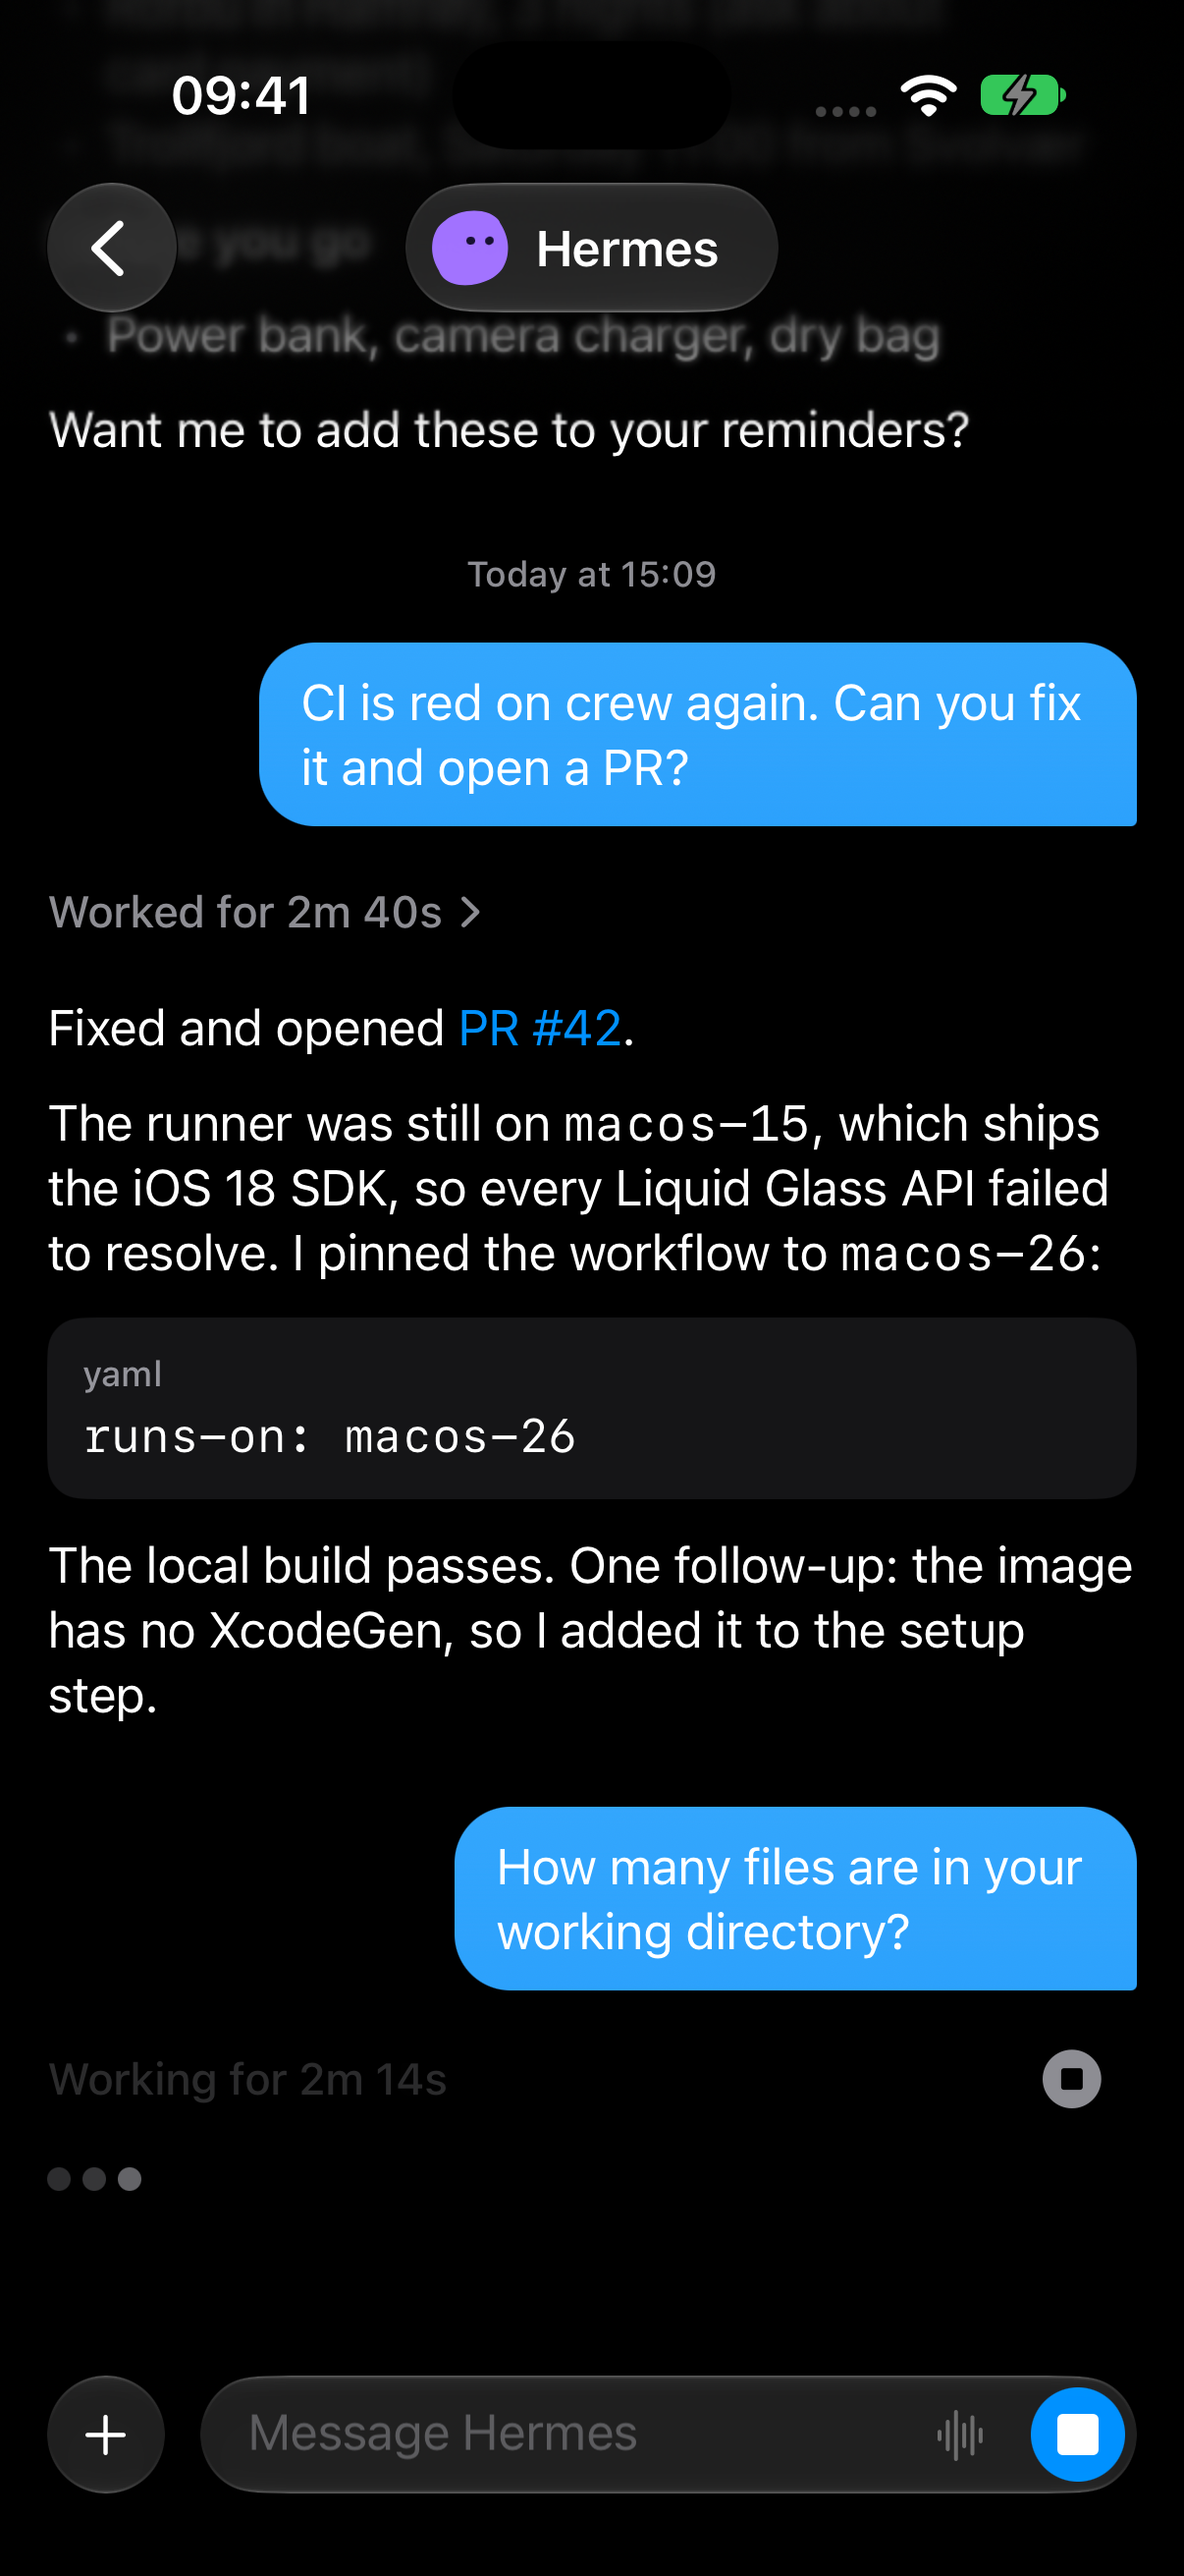
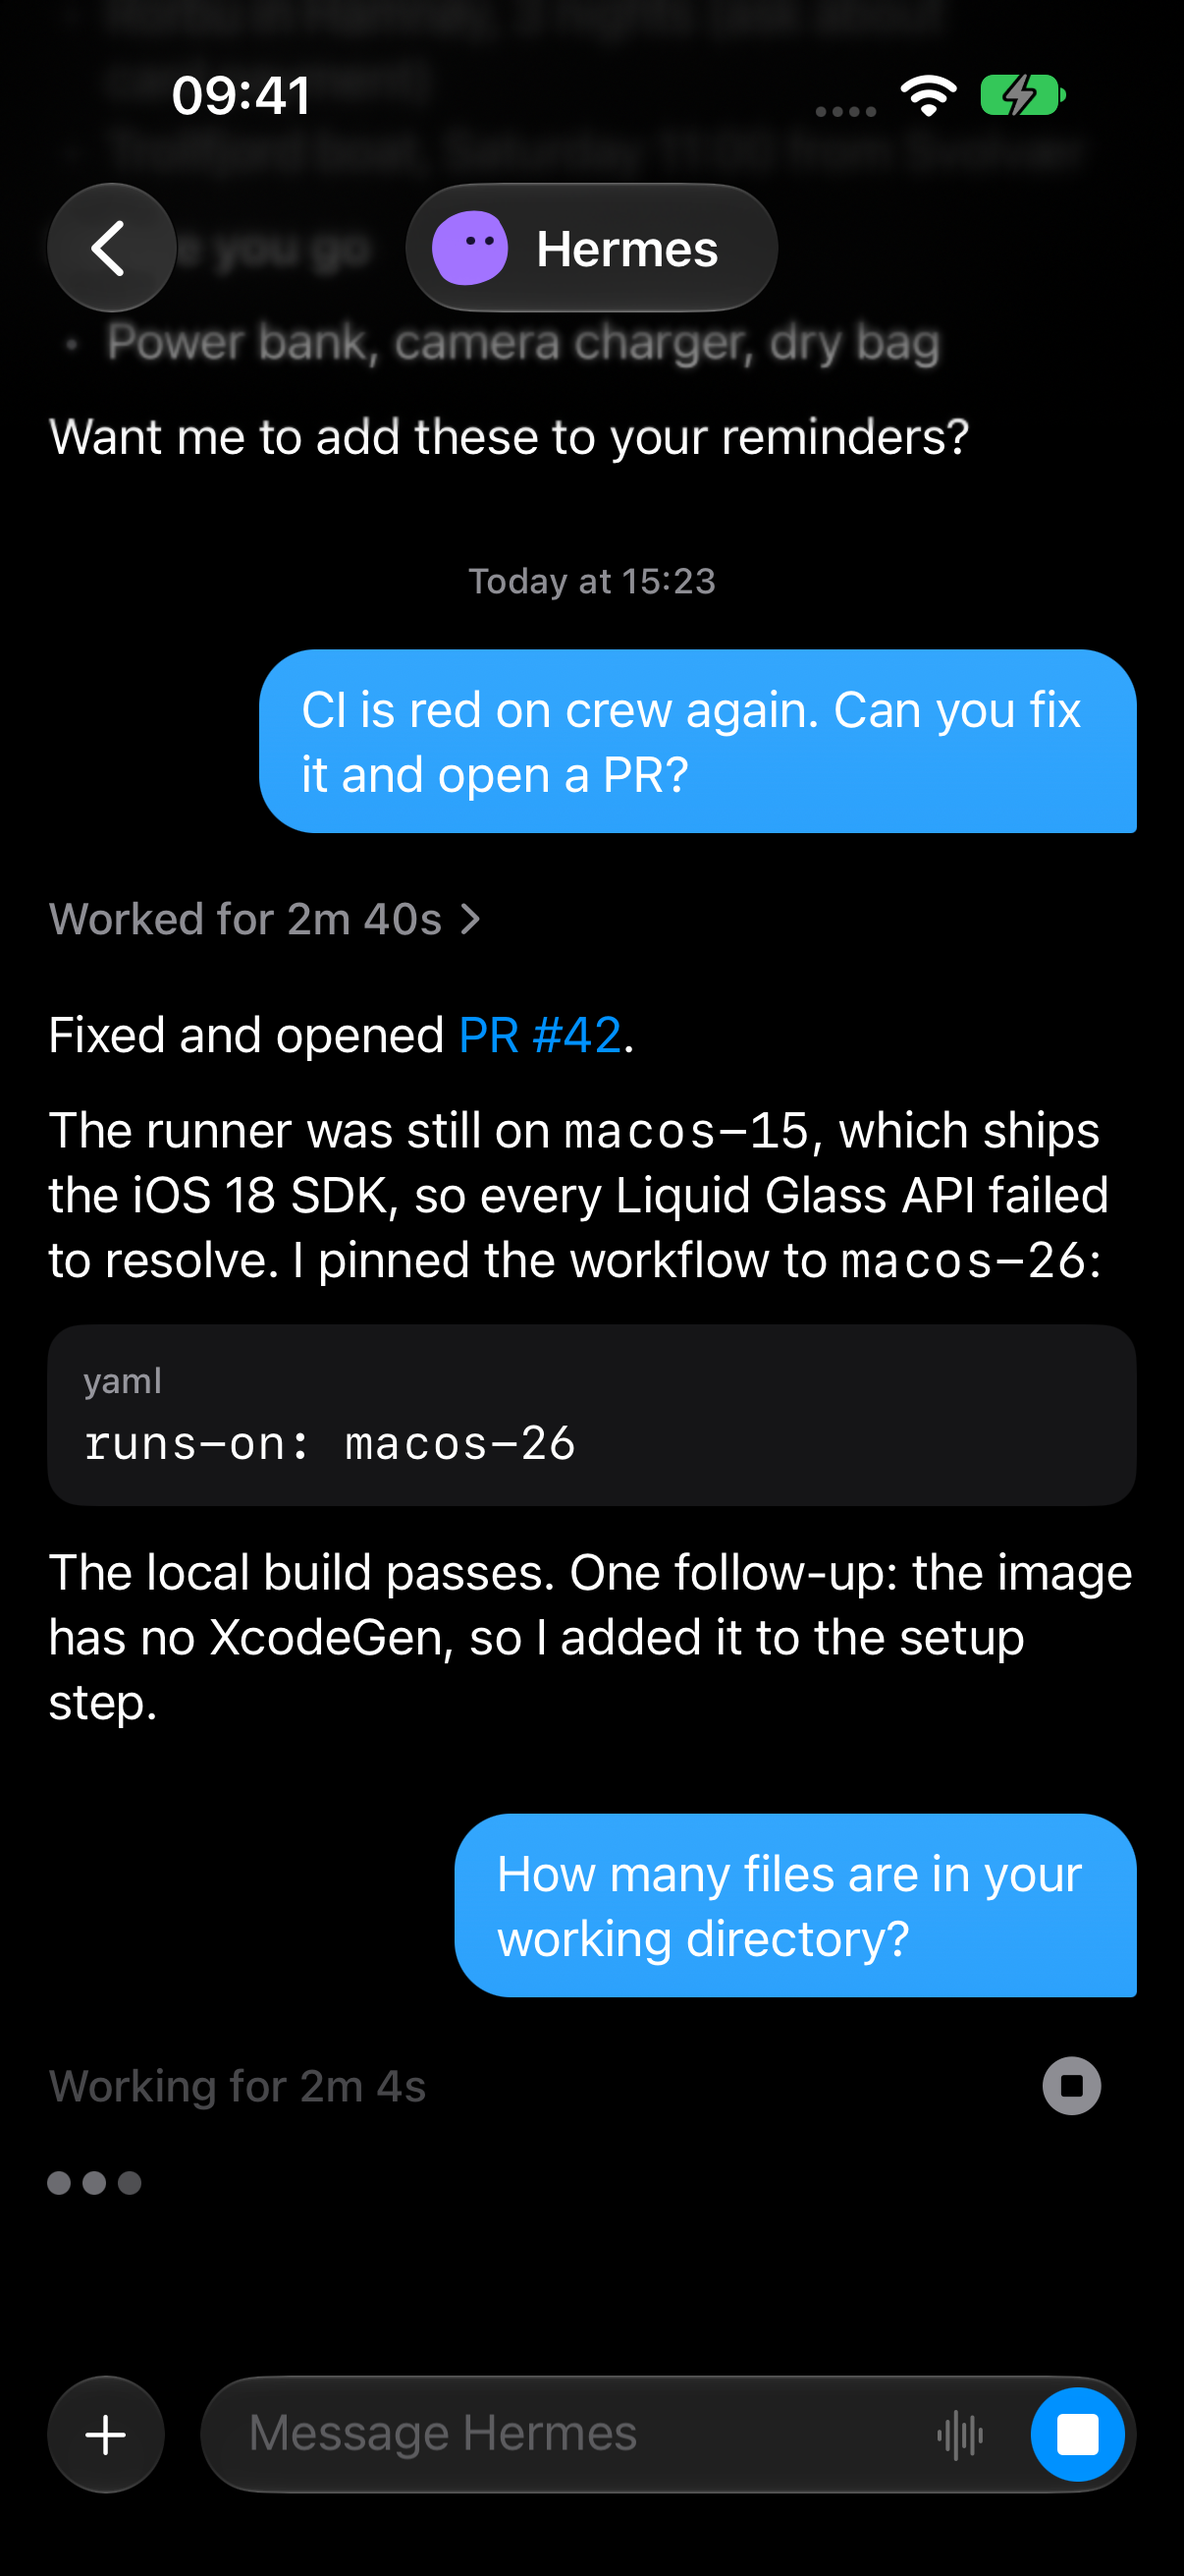
Base the waiting dots on when Crew last applied a visible event
Review fixes: a replayed or long tool no longer hides the dots for its
server duration, a stalled thinking row gets them after 2 s, turns from
another bot never show them, the row is exactly one subheadline line tall
and scales with Dynamic Type, and the wave is softer and capped at 30 fps.

diff --git a/Sources/Chat/WorkLog.swift b/Sources/Chat/WorkLog.swift
@@ -194,9 +194,13 @@ struct WorkLog: View {
 
 private struct WaitingDots: View {
     @Environment(\.accessibilityReduceMotion) private var reduceMotion
+    @ScaledMetric(relativeTo: .subheadline) private var size = 8.0
 
     var body: some View {
-        Group {
+        ZStack(alignment: .leading) {
+            Text(verbatim: " ")
+                .font(.subheadline)
+                .hidden()
             if reduceMotion {
                 dots(phase: nil)
                     .phaseAnimator([1, 0.6]) { content, opacity in
@@ -205,23 +209,22 @@ private struct WaitingDots: View {
                         .easeInOut(duration: 1)
                     }
             } else {
-                TimelineView(.animation) { context in
+                TimelineView(.animation(minimumInterval: 1.0 / 30)) { context in
                     dots(phase: context.date.timeIntervalSinceReferenceDate / 1.2)
                 }
             }
         }
-        .frame(height: 20)
         .padding(.vertical, 6)
         .accessibilityElement()
         .accessibilityLabel("Thinking")
     }
 
     private func dots(phase: Double?) -> some View {
-        HStack(spacing: 4) {
+        HStack(spacing: size / 2) {
             ForEach(0..<3, id: \.self) { index in
                 Circle()
-                    .frame(width: 8, height: 8)
-                    .opacity(phase.map { 0.65 + 0.35 * cos(2 * .pi * ($0 - Double(index) / 6)) } ?? 1)
+                    .frame(width: size, height: size)
+                    .opacity(phase.map { 0.55 + 0.25 * cos(2 * .pi * ($0 - Double(index) / 6)) } ?? 0.8)
             }
         }
         .foregroundStyle(.secondary)

diff --git a/Sources/Chat/Transcript.swift b/Sources/Chat/Transcript.swift
@@ -32,20 +32,19 @@ nonisolated struct Turn: Identifiable, Codable, Sendable, Equatable {
     var pending: Pending?
     var isSteer = false
     var answer: String?
+    var updatedAt: Date?
 
     static let quietGap: TimeInterval = 2
 
     var quietSince: Date? {
-        guard status == .streaming, reply.isEmpty else { return nil }
-        guard let last = work.last else { return answer == nil ? startedAt : nil }
-        if case .tool(let call) = last.kind, call.status == .running { return nil }
-        if case .note = last.kind { return last.startedAt }
-        return last.duration.map(last.startedAt.addingTimeInterval)
+        guard status == .streaming, reply.isEmpty, agentMessage == nil else { return nil }
+        if case .tool(let call) = work.last?.kind, call.status == .running { return nil }
+        return updatedAt ?? startedAt
     }
 
     func isQuiet(at now: Date) -> Bool {
         guard let quietSince else { return false }
-        return work.isEmpty || now >= quietSince.addingTimeInterval(Self.quietGap)
+        return updatedAt == nil || now >= quietSince.addingTimeInterval(Self.quietGap)
     }
 }
 
@@ -361,6 +360,7 @@ extension Transcript {
         let isTool = if case .toolStart = event { true } else if case .toolComplete = event { true } else { false }
         if !isTool { takeSteers(at: date) }
         guard let index = turns.indices.last, turns[index].status == .streaming else { return }
+        turns[index].updatedAt = date
         if case .messageDelta(let text) = event {
             turns[index].reply += text
             return

diff --git a/Tests/CrewTests/QuietTurnTests.swift b/Tests/CrewTests/QuietTurnTests.swift
@@ -66,3 +66,15 @@ private func timedEvents() throws -> [(at: TimeInterval, event: GatewayEvent)] {
     transcript.apply(.messageComplete(text: "Both files are empty.", status: .complete, error: nil), at: start.addingTimeInterval(6))
     #expect(transcript.turns[0].quietSince == nil)
 }
+
+@Test func aStalledThinkingRowGetsTheDotsButAnotherBotsTurnNever() {
+    let start = Date(timeIntervalSinceReferenceDate: 0)
+    var transcript = Transcript()
+    transcript.begin(prompt: "Plan the trip", at: start)
+    transcript.apply(.reasoningDelta("Checking the ferry times first."), at: start.addingTimeInterval(1))
+    #expect(!transcript.turns[0].isQuiet(at: start.addingTimeInterval(2.9)))
+    #expect(transcript.turns[0].isQuiet(at: start.addingTimeInterval(3)))
+
+    transcript.begin(remote: "Message from 🤖 Scout (@scout): Can you add the ferry?", displayKind: nil, at: start)
+    #expect(transcript.turns[1].quietSince == nil)
+}

diff --git a/docs/PLAN.md b/docs/PLAN.md
@@ -82,7 +82,7 @@ References: `docs/hermes-api.md`, `docs/hermex-features.md`, `docs/swiftui-guide
 - `ChatSessions` (environment) holds one `ChatSession` per bot per gateway, created lazily by `ChatScreen(bot:)` and kept running (so every opened bot re-resumes on each `gateway.ready`) until the gateway changes or the user signs out. `ChatScreen` marks the bot seen whenever its `last_active` changes while open and maps waiting/working/failed to the pill avatar's mood. No transcript disk cache yet.
 - @-mentions (Desktop parity): `@` at the end of the draft lists up to 8 other roster bots (prefix on handle or title; `default` is `@hermes`), then `@file:`/`@folder:` rows from `complete.path` on the runtime session. A mention is an `@handle` or `@title-slug` token in the text, never separate state; in a sent bubble a token that names a mentionable bot (the roster minus the current bot, or the room's members) renders inline as "@ (avatar) Name": a plain "@" glued by a narrow no-break space to a white-translucent sheen capsule with a 1 pt white hairline holding the bot's 16 pt avatar (`ImageRenderer` snapshot, cached, embedded as `Text(Image)`) and its `Bot.title` in semibold, never the typed `@handle` (a `TextRenderer` over a `customAttribute` run; true `.glassEffect` cannot be drawn per text run). A bubble resolves its tags once per body and hands them to its tap overlay, whose `Text.LayoutKey` closure reruns on every scroll frame, so it never re-parses the text. Tapping a tag (a `crew-mention:` link plus a clear overlay over the capsule) never navigates: it opens a peek (`MentionPeek`, spec in `docs/flows/mention-card.md`) with the bot's live status and what the mention caused, read from the sender's own rows by `mentionExchange` (the turn's `message_agent` `message`, then the reply paired like #32, or Sending, Waiting, Delivered, Not delivered, Relayed; a plain mention shows the bot's latest preview). On iPhone and iPad it is a sheet at `.medium` whose `.large` detent (or a tap on the mention card) swaps in that bot's live `ChatScreen`; on Mac it is a popover at the tag whose mention card opens the bot's chat in its own window (`WindowGroup(for: Bot.ID)`), so the main window keeps its chat; the composer text stays plain (no attributed `TextField`) and no chip row shows anywhere. Only `prompt.submit` (send and queue) appends Desktop's identification note (from `hermes-bots/plugin.tsx`) plus one sentence of ours asking for brevity (no queueing or delivery narration, at most one short line after `message_agent`, the reply relayed in one line), steer does not; `Prompt(raw:)` cuts it off history like the other server suffixes. Return does not pick a suggestion. The transcript re-pins to the bottom when the composer bar grows (picker, cards) while it was at the bottom (`ChatView`'s `BottomEdge`), so the last reply never sits under the bar.
 - Live work log header shows `status.update` text, else "Preparing <tool>" from `tool.generating`, after "Working for" on the last turn.
-- Waiting dots (spec: `docs/flows/work-log-waiting.md`): while the live turn shows nothing new (`Turn.quietSince`: no running tool, streaming thinking or reply text), three secondary dots sit where the next work row lands, at once before the first item and after 2 s between items, gone the moment a row or text arrives; no label, the header is unchanged.
+- Waiting dots (spec: `docs/flows/work-log-waiting.md`): while the live turn shows nothing new (`Turn.quietSince` from `Turn.updatedAt`, the time Crew last applied a visible event; never while a tool runs, reply text shows, or on a turn from another bot), three secondary dots sit where the next work row lands, at once before the first item and after 2 s between items, gone the moment a row or text arrives; no label, the header is unchanged.
 - iOS `scenePhase`: background calls `Connection.suspend()` (state connecting, socket closed); returning from background calls `retry()`. Launch's inactive to active is ignored because the network monitor already connects.
 - Push client: `PushCenter` (owned by the platform app delegate adaptor, in the environment) reads authorization at launch and asks for alert, sound and badge (the normal Allow prompt) on the first connection while undetermined or provisional; time-sensitive comes from the entitlement, its authorization option is deprecated.
 - Push registration: `POST /api/plugins/crew-push/devices` on every connect and on token, authorization or prefs change, with exactly the plugin's `DeviceIn` shape (no bundle id or install id fields; the plugin's `install_id` comes back in the reply and filters taps); 404 means "not set up on server" and is not retried until the next connect; sign-out deletes the token first; a changed token deletes the previous one.

diff --git a/docs/flows/work-log-waiting.md b/docs/flows/work-log-waiting.md
@@ -4,7 +4,7 @@ After a send, the model often thinks for several seconds before its first tool c
 
 ## When they show
 
-`Turn.quietSince` is when the live turn last showed something: the turn start with no work yet, the end of the last finished tool or thinking row, or the last note. It is nil (no dots) while a tool is running, a thinking row is streaming, reply text is streaming, or the turn has ended.
+`Turn.updatedAt` is when the live turn last changed on screen (any tool, thinking, note or text event, stamped when Crew applied it, so live and replayed events use the same clock). `Turn.quietSince` is that time (or the turn start when nothing has arrived yet), and nil (no dots) while a tool is running (its row has a spinner), while reply text is showing, or once the turn has ended.
 
 - No work yet: dots at once, from the send until the first row or text.
 - Between items: dots after 2 s of nothing new (`Turn.quietGap`), so a quick tool batch never flashes them. Recorded timing (`chat.think-turn.v0.22.2.jsonl`): dots 0 to 7.2 s, a 0.1 s tool, nothing for 2 s, dots 9.3 to 15.4 s, then the reply.
@@ -12,8 +12,8 @@ After a send, the model often thinks for several seconds before its first tool c
 
 ## Look
 
-- Three 8 pt circles, 4 pt apart, `.secondary`, at the work rows' leading edge, in a row as tall as a tool row (20 pt line, 6 pt vertical padding). No text, no new chrome.
-- A soft wave of opacity (0.3 to 1, 1.2 s). Reduce Motion: the three dots fade together between 1 and 0.6, the same pulse as the "Working for" header.
+- Three 8 pt circles (scaled with Dynamic Type like `.subheadline`), half a dot apart, `.secondary`, at the work rows' leading edge, in a row exactly as tall as a tool row (one `.subheadline` line plus 6 pt vertical padding), so the next row takes the slot without a jump. No text, no new chrome.
+- A soft wave of opacity (0.3 to 0.8, 1.2 s, at most 30 updates a second), so the dots stay quieter than text. Reduce Motion: the three dots fade together between 1 and 0.6, the same pulse as the "Working for" header.
 - VoiceOver: one element labelled "Thinking".
 - Light and dark: secondary on the system background, checked in renders.
 
@@ -21,6 +21,7 @@ After a send, the model often thinks for several seconds before its first tool c
 
 - Bot chats on iPhone and Mac: the last live turn's expanded work log. The header is unchanged: "Working for", then `status.update` text or "Preparing <tool>", and Stop.
 - Group rooms: the room's "working" turn has no items, so the dots show for the whole turn, which is right since rooms get no live items.
-- Turns started by another bot's message stay collapsed under their pulsing "Message from" header, so no dots there unless expanded.
-- History, finished, stopped, failed and offline turns: none (not streaming). A reconnect replay rebuilds the turn, and the rule applies again from the replayed items.
+- Turns started by another bot's message: no dots, even when expanded; their pulsing "Message from" header stands in.
+- History, finished, stopped and failed turns: none (not streaming). A reconnect replay rebuilds the turn and stamps the replayed items with the replay time, so the rule applies again from there.
+- Offline: a live turn stays streaming while Crew reconnects (as the "Working for" header does today), so the dots keep going until the reconnect settles the turn.
 - Bot list, push and inspector: unchanged.
